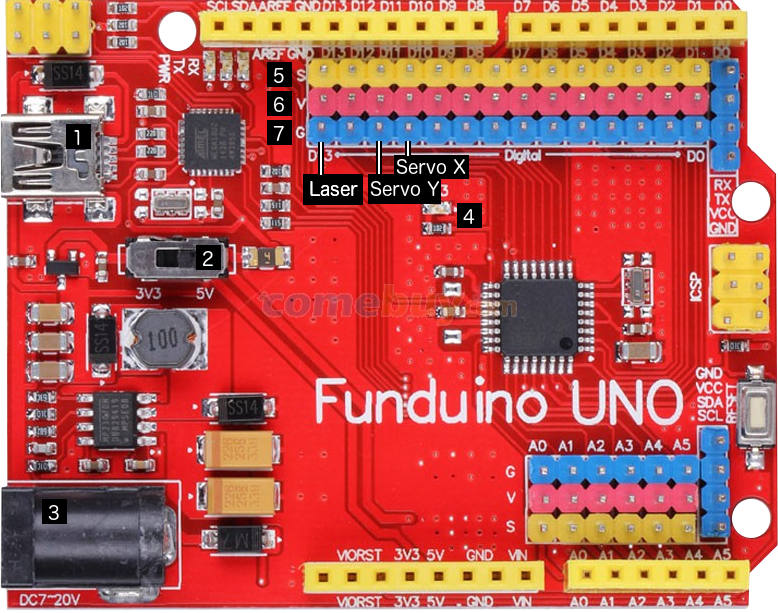
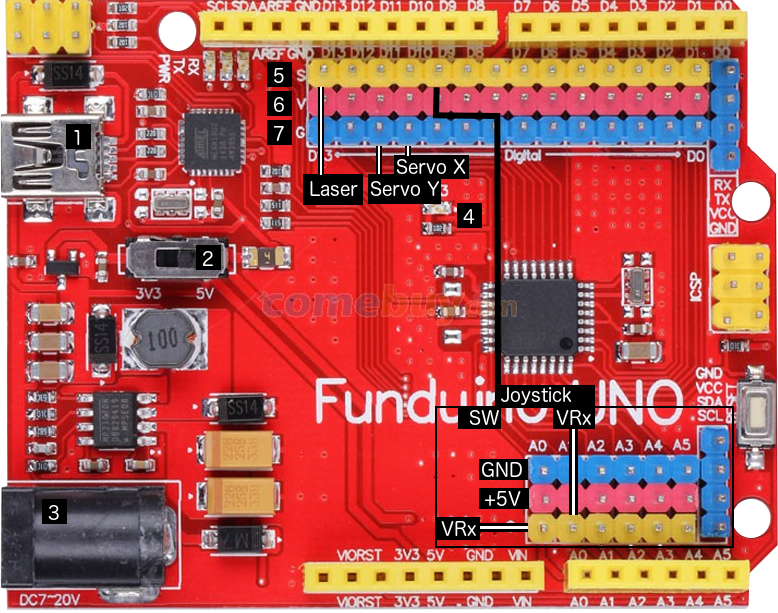
added doc for joystick typo plus theme changes

diff --git a/source/_posts/thanks.md b/source/_posts/thanks.md
@@ -8,11 +8,13 @@ tags:
 
 thanks to all that participated in making cat less bored! 
 
+- Cats 
 - [Zhi Zhang][1] helped making the catbot a beautifull thing
-- [Tableflip[2] co created the nodebot workshop
+- [Tableflip][2] co created the nodebot workshop for LXJS 2014
 - [Nuno Jobs][3] co writter of the original catbot lib, and beliver of the project
-- all ppl who organised or attended catbot workshops
+- the nodebot community, Johnny-five, node serial port, firmata
+- all ppl who helped organising or attended catbot workshops
 
 [1]: https://twitter.com/zhizh2
 [2]: https://tableflip.io/
-[1]: http://yld.io/
+[3]: https://nunojob.com/

diff --git a/source/_posts/build.md b/source/_posts/build.md
@@ -6,7 +6,7 @@ date: 2016-12-29 01:00:01
 To assemble the frame of the catbot you will need
 
 - all wodden bits from the kit
-- the 2 servomotors
+- the 2 servomotors (the 2 blue ones)
 - the laser
 
 ## Notes before assembling
@@ -142,7 +142,7 @@ parts for this kits are made to snap and fit together without glue, so you will 
   </li>
   <li>
     <!-- instruction 14-->
-    insert the laser in the wooden bit
+    insert the laser (the dark grey cylinder in the pict in the wooden bit
   </li>
   <li>
     <!-- instruction 15-->

diff --git a/source/Welcome/index.md b/source/Welcome/index.md
@@ -23,7 +23,10 @@ You will find here all informations to build and play with your catbot.
 
 ## Demos !!
 
+LXJS 2014 catbot workshop (shot by Joana Job)
 <iframe width="560" height="315" src="https://www.youtube.com/embed/6tOPI7YGPjM" frameborder="0" allowfullscreen></iframe>
+
+early testing by the initial client of the catbot: Guu 
 <iframe width="560" height="315" src="https://www.youtube.com/embed/6NYyGC-wZKU" frameborder="0" allowfullscreen></iframe>
 
 ## I want some moar

diff --git a/source/_posts/connect.md b/source/_posts/connect.md
@@ -39,9 +39,10 @@ Same as Y but on D10 the row befor the Y one
 
 Congratulation, your catbot is close to be complete !
 
+## Joystick
+if you have a joystick in your kit, it comes with a strip of five wires, connect them to the joystick and link the wire with the pins in the Joystic section of the image
+
 ## Next step
 if you want to learn to program your catbot go [here][1]
-if you just want to play with the thing and use OSX, go [here][2]
 
 [1]:/test
-[2]:/play
